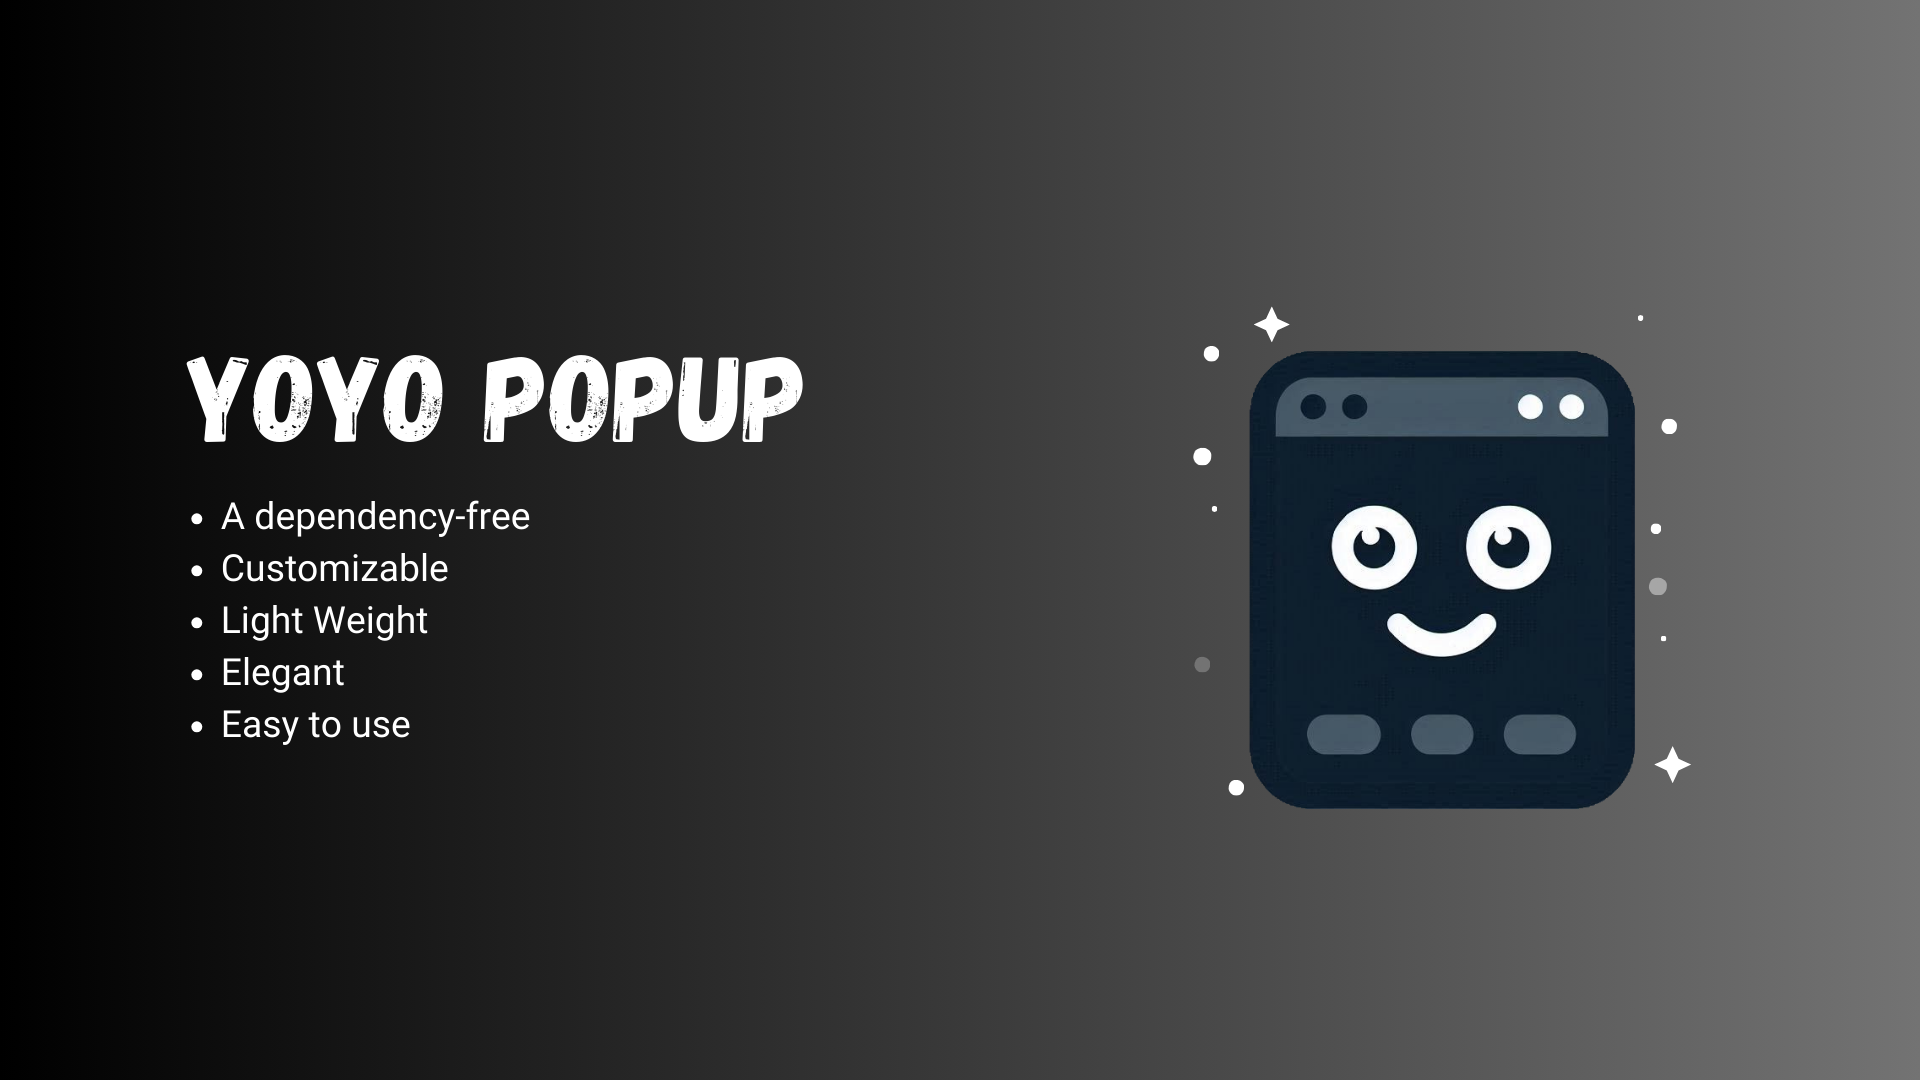
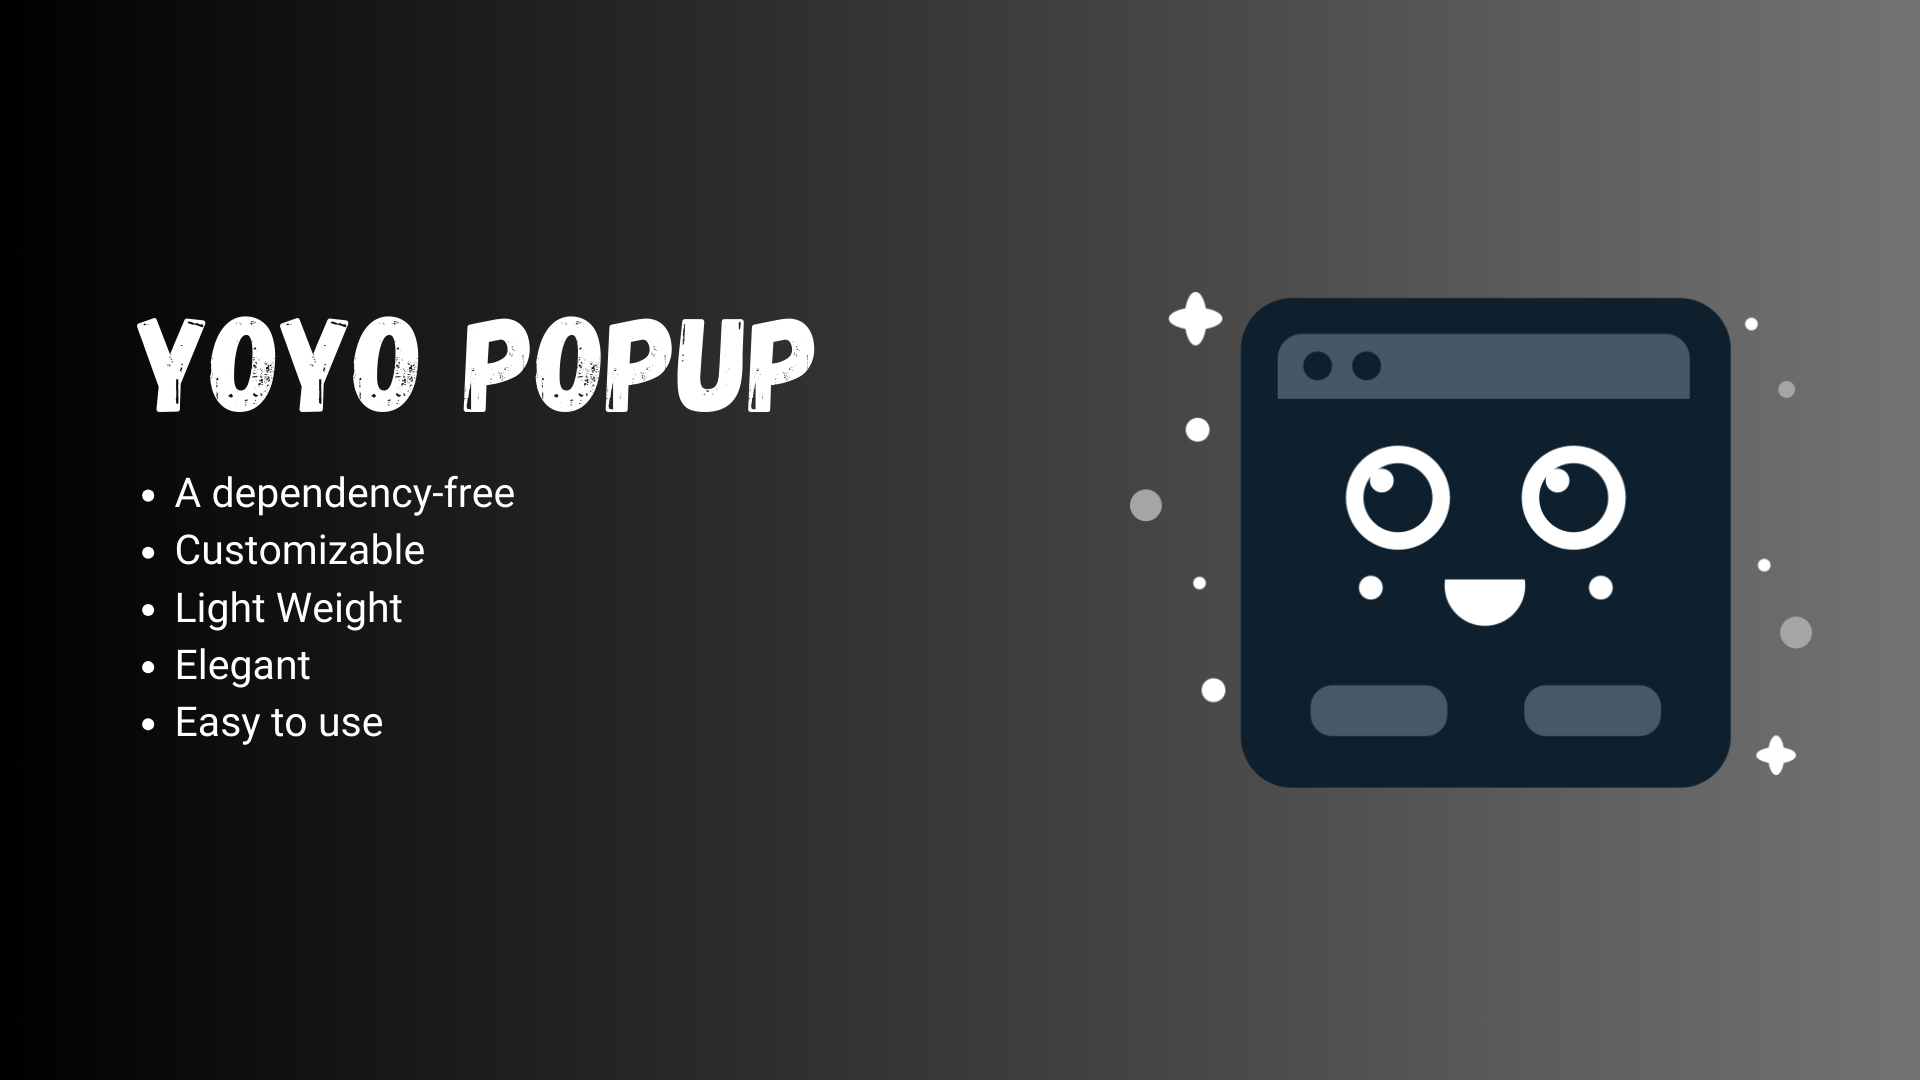
chore: change mascot

Changed region(s): [[0.5625, 0.275, 0.9688, 0.7639], [0.0625, 0.275, 0.4375, 0.7028]]

diff --git a/index.html b/index.html
@@ -16,7 +16,7 @@
 
 <body style="font-family: Arial, sans-serif;">
     <div class="container">
-        <h1 style="margin-bottom: 50px;">Yoyo Popup</h1>
+        <h1 style="margin-bottom: 80px;">Yoyo Popup</h1>
         <img class="floating-image" src="./images/yoyo_popup.png" style="margin-bottom: 50px;">
         <button class="github-btn" style="margin-bottom: 50px;">
             <a href="https://github.com/smallvi/yoyo_popup" target="_blank" class="github-link"

diff --git a/styles.css b/styles.css
@@ -156,8 +156,8 @@ h1 {
 }
 
 .floating-image {
-    width: 200px;
-    height: auto;
+    width: 300px;
+    /* height: auto; */
     animation: float 3s ease-in-out infinite;
 }
 
